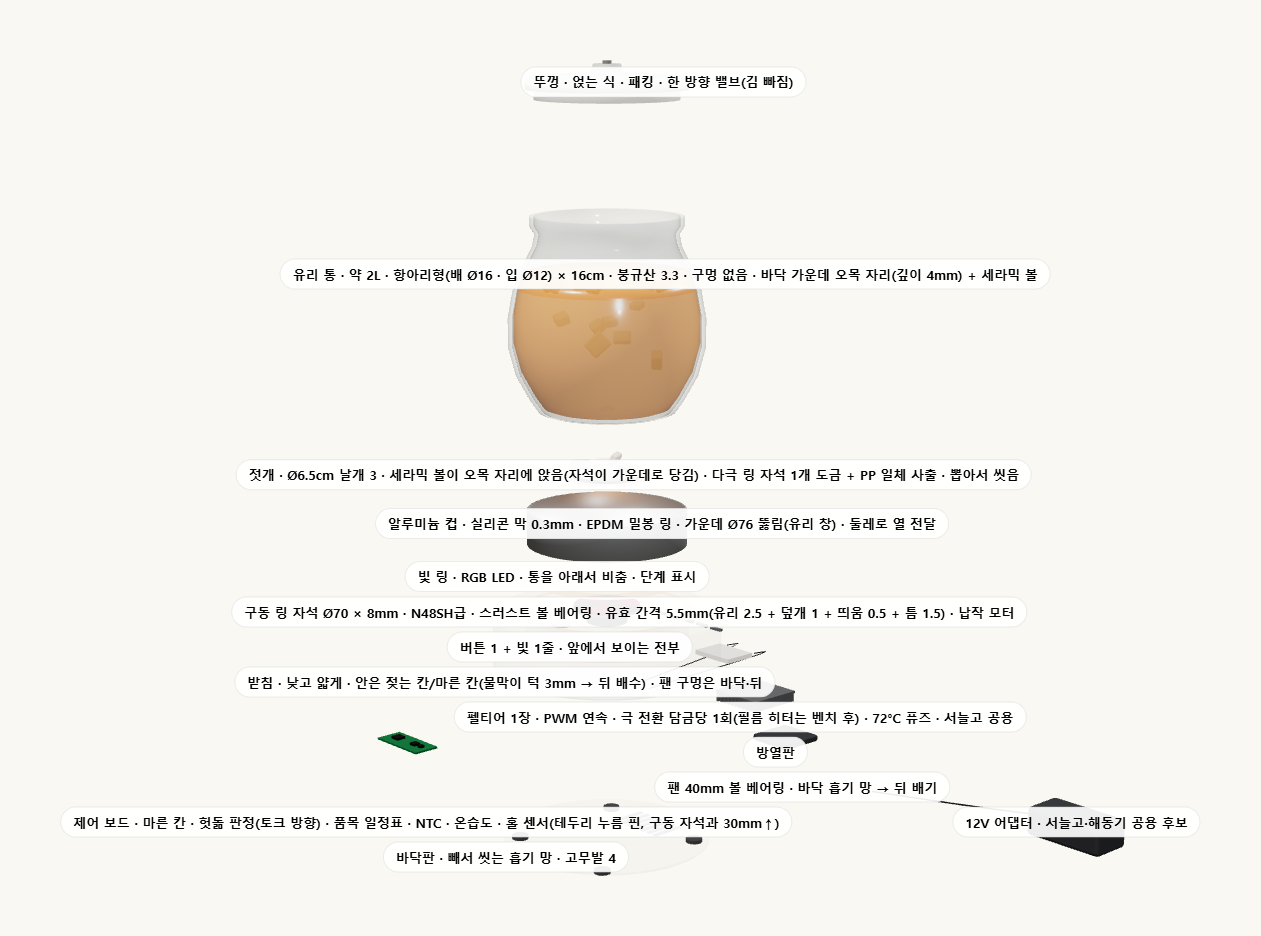
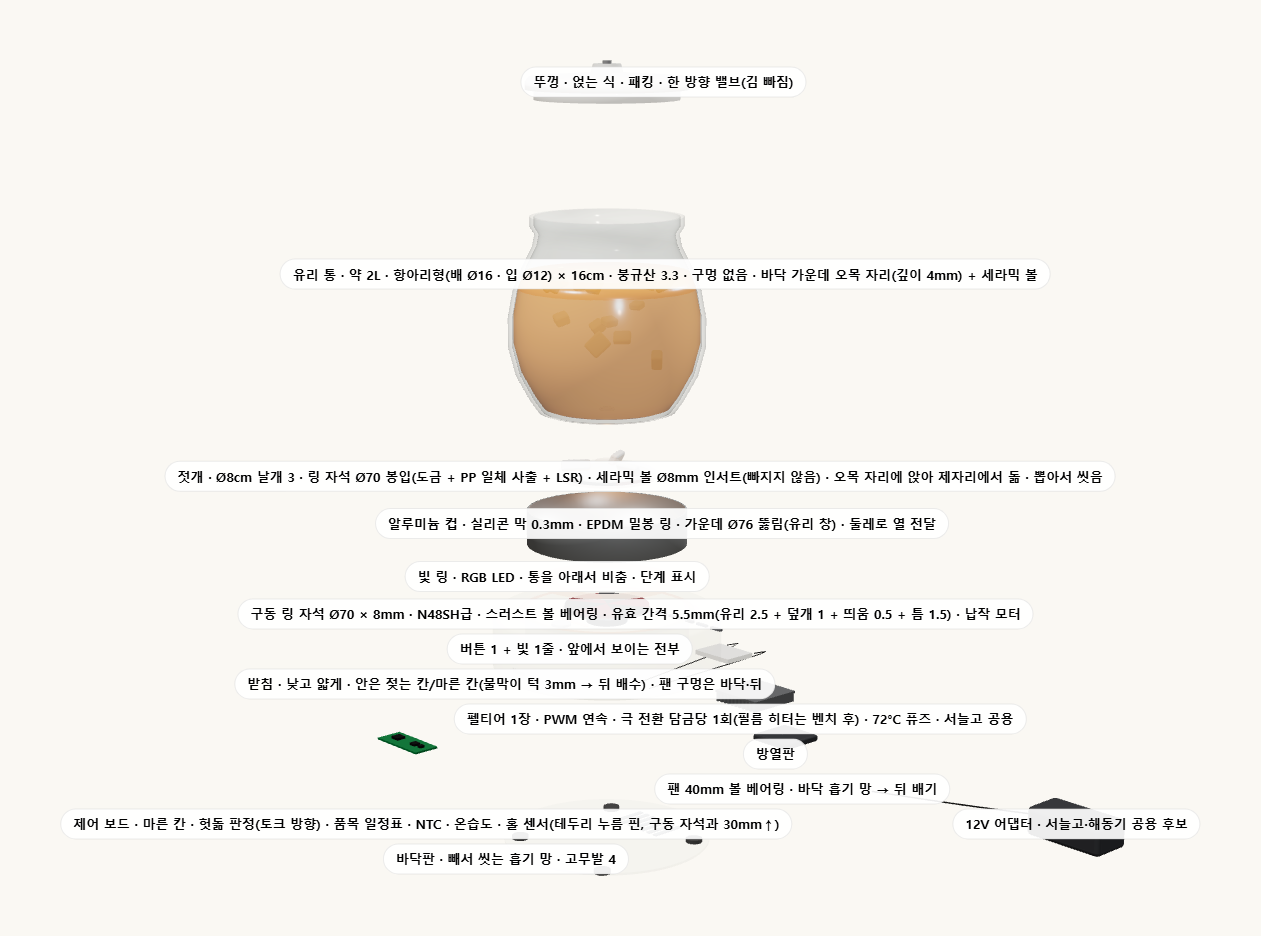
3D 젓개 Ø6.5→Ø8cm(두팔 82231d0에 맞춤): 링 자석 Ø70 양쪽 같은 지름(MR 0.35) · 라벨에 젓개 쪽 링 Ø70·세라믹 볼 인서트 복원 · 단면도 2번 라벨 Ø8cm · 분해도·확대 캡처 재생성

diff --git a/explode.js b/explode.js
@@ -3,7 +3,7 @@ import { RoundedBoxGeometry } from 'three/addons/geometries/RoundedBoxGeometry.j
 import { RoomEnvironment } from 'three/addons/environments/RoomEnvironment.js';
 
 // 휴롬 과일청 메이커(가칭) · 구조 3D v1 첫판 (2026-11-17, 두팔 msg_936ec2ba·msg_4b56059b 지시 · 준보 「무조건 이뻐야 한다」)
-//   유리 통(약 2L, 바닥 가운데 유리 돌기=핀) + 핀에 끼운 Ø6.5cm 날개 젓개(여러 극 희토류 자석 봉입) + 컵 가운데 Ø7cm 유리 창 아래 구동 자석 원판(유효 간격 6~7mm) + 통 바깥(알루미늄 컵 둘레) 펠티어 + 뚜껑 한 방향 밸브. 받침은 낮고 얇게, 유리 통이 주인공. 받침 빛이 통을 아래서 비춤.
+//   유리 통(약 2L, 바닥 가운데 유리 돌기=핀) + 오목 자리에 앉는 Ø8cm 날개 젓개(여러 극 희토류 자석 봉입) + 컵 가운데 Ø7cm 유리 창 아래 구동 자석 원판(유효 간격 6~7mm) + 통 바깥(알루미늄 컵 둘레) 펠티어 + 뚜껑 한 방향 밸브. 받침은 낮고 얇게, 유리 통이 주인공. 받침 빛이 통을 아래서 비춤.
 //   시안 3개: A 항아리형 유리 + 흰 무광 받침 · B 원통 유리 + 연회색 세라믹 받침 · C 넓적한 낮은 유리 + 베이지 받침. 나무 안: 뚜껑 손잡이·받침 윗테.
 //   치수는 모두 가정(단위 10cm): A 받침 Ø20 × 6cm · 통 Ø16(배) × 16cm · 뚜껑 1.2cm.
 //   쿼리: ?p=0~1 진행도 · ?v=a|b|c 시안 · ?c=yuja|maesil|omija|strawberry 청 색 · ?wood 나무 안 · ?night 저녁 장면 고정 · ?day 낮 고정 · ?ang=<도> · ?cy= · ?noairg ?noadapter ?nofruit
@@ -136,7 +136,7 @@ function build(vk) {
   const BH = V.baseH, CUP_D = 0.26, CUP_Y = BH - CUP_D;    // 컵 바닥 높이
   const JH = V.jarH, JY = CUP_Y + 0.02;                     // 통 바닥 높이
   const HR = 0.38, GT = 0.03, GAP = 0.01;                     // 컵 가운데 구멍 반지름(Ø76) · 유리 바닥 3mm · 틈(그림) · 실제 유효 간격 5.5mm(유리 2.5 + 덮개 1.0 + 띄움 0.5 + 틈 1.5) — 2차 구조 검토
-  const VR = 0.325, BALLR = 0.04, DIMPLE = 0.04;              // 날개 Ø6.5cm · 지르코니아 세라믹 볼 Ø8mm · 유리 바닥 오목 자리 깊이 4mm(돌기 없음 — 2차 구조 검토 2026-11-17)
+  const VR = 0.40, MR = 0.35, BALLR = 0.04, DIMPLE = 0.04;   // 날개 Ø8cm · 링 자석 Ø70(젓개 쪽 · 구동 쪽 같은 지름) · 지르코니아 세라믹 볼 Ø8mm · 유리 바닥 오목 자리 깊이 4mm(돌기 없음 — 2차 구조 검토 2026-11-17)
   M.body.color.set(V.baseColor); M.body.roughness = V.baseRough; M.body.clearcoat = V.baseClear;
 
   /* 1. 받침 몸통 — 낮고 얇게. 앞에는 버튼 1 + 빛 1줄만. 팬 구멍은 바닥·뒤 */
@@ -192,16 +192,16 @@ function build(vk) {
     g.position.y = JY;
     part(`유리 통 · 약 2L · ${V.jar === 'onggi' ? '항아리형(배 Ø16 · 입 Ø12)' : V.jar === 'cyl' ? '원통 Ø14' : '넓적 Ø18'} × ${Math.round(JH * 10)}cm · 붕규산 3.3 · 구멍 없음 · 바닥 가운데 오목 자리(깊이 4mm) + 세라믹 볼`, g, [0, 1.9, 0], new THREE.Vector3(V.mouthR + 0.1, JH * 0.75, 0));
   }
-  /* 5. 젓개 — Ø6.5cm 날개 3 · 바닥 가운데 지르코니아 세라믹 볼이 유리 오목 자리에 앉아 제자리에서 돎(자석이 가운데로 당김) · 다극 링 자석 1개는 도금 후 PP 일체 사출(이음매 없음) · LSR 덮기 */
+  /* 5. 젓개 — Ø8cm 날개 3 · 바닥 가운데 지르코니아 세라믹 볼이 유리 오목 자리에 앉아 제자리에서 돎(자석이 가운데로 당김) · 다극 링 자석 1개는 도금 후 PP 일체 사출(이음매 없음) · LSR 덮기 */
   {
     const g = new THREE.Group();
     const body = lathe([[0, 0], [VR, 0], [VR, 0.06], [VR - 0.03, 0.08], [0.12, 0.08], [0.1, 0.15], [0, 0.15]], M.siliconeT, 64); g.add(body);   // 실리콘 겉몸(반투명으로 그림) — 핀 구멍 없음
     const ball = new THREE.Mesh(new THREE.SphereGeometry(BALLR, 24, 16), M.pp); ball.position.y = 0.01; g.add(ball);   // 지르코니아 세라믹 볼(식품용) — 젓개에 박혀 유리 오목 자리에 앉음
-    for (let i = 0; i < 6; i++) { const seg = new THREE.Mesh(new THREE.CylinderGeometry(VR - 0.045, VR - 0.045, 0.028, 48, 1, false, i * Math.PI / 3, Math.PI / 3), i % 2 ? M.magnetS : M.magnet); seg.position.y = 0.026; g.add(seg); }   // 6극 자석 원판(N·S 번갈아) — 유리 바닥에 가장 가깝게
-    const ppCap = new THREE.Mesh(new THREE.CylinderGeometry(VR - 0.04, VR - 0.04, 0.012, 48), M.pp); ppCap.position.y = 0.047; g.add(ppCap);   // PP 봉입 덮개
+    for (let i = 0; i < 6; i++) { const seg = new THREE.Mesh(new THREE.CylinderGeometry(MR, MR, 0.028, 48, 1, false, i * Math.PI / 3, Math.PI / 3), i % 2 ? M.magnetS : M.magnet); seg.position.y = 0.026; g.add(seg); }   // 6극 자석 원판(N·S 번갈아) — 유리 바닥에 가장 가깝게
+    const ppCap = new THREE.Mesh(new THREE.CylinderGeometry(MR + 0.01, MR + 0.01, 0.012, 48), M.pp); ppCap.position.y = 0.047; g.add(ppCap);   // PP 봉입 덮개
     for (let i = 0; i < 3; i++) { const h = new THREE.Group(); h.rotation.y = i * Math.PI * 2 / 3; const b = new THREE.Mesh(new RoundedBoxGeometry(VR - 0.16, 0.09, 0.06, 2, 0.02), M.silicone); b.position.set((VR + 0.1) / 2 + 0.01, 0.12, 0); b.rotation.x = 0.4; h.add(b); g.add(h); }   // 날개 3 · 끝 둥글게
     g.position.y = JY + GT - DIMPLE * 0.6; g.userData.slow = true; spinners.push(g);   // 볼이 오목 자리에 잠김
-    part('젓개 · Ø6.5cm 날개 3 · 세라믹 볼이 오목 자리에 앉음(자석이 가운데로 당김) · 다극 링 자석 1개 도금 + PP 일체 사출 · 뽑아서 씻음', g, [0, 1.35, 0], new THREE.Vector3(VR, 0.08, 0));
+    part('젓개 · Ø8cm 날개 3 · 링 자석 Ø70 봉입(도금 + PP 일체 사출 + LSR) · 세라믹 볼 Ø8mm 인서트(빠지지 않음) · 오목 자리에 앉아 제자리에서 돎 · 뽑아서 씻음', g, [0, 1.35, 0], new THREE.Vector3(VR, 0.08, 0));
   }
   /* 6. 뚜껑 — 얹어 누르는 식 · 가운데 한 방향 밸브 · 손잡이(나무 안) */
   {
@@ -219,12 +219,12 @@ function build(vk) {
     const g = new THREE.Group();
     const DT = 0.03, dy = JY - GAP - DT / 2;
     const disc = new THREE.Group(); disc.position.y = dy;
-    for (let i = 0; i < 6; i++) { const seg = new THREE.Mesh(new THREE.CylinderGeometry(VR - 0.05, VR - 0.05, DT, 48, 1, false, i * Math.PI / 3, Math.PI / 3), i % 2 ? M.magnet : M.magnetS); disc.add(seg); }
-    const yoke = new THREE.Mesh(new THREE.CylinderGeometry(VR - 0.04, VR - 0.04, 0.012, 48), M.heatsink); yoke.position.y = -DT / 2 - 0.006; disc.add(yoke);   // 철 백요크
+    for (let i = 0; i < 6; i++) { const seg = new THREE.Mesh(new THREE.CylinderGeometry(MR, MR, DT, 48, 1, false, i * Math.PI / 3, Math.PI / 3), i % 2 ? M.magnet : M.magnetS); disc.add(seg); }
+    const yoke = new THREE.Mesh(new THREE.CylinderGeometry(MR + 0.01, MR + 0.01, 0.012, 48), M.heatsink); yoke.position.y = -DT / 2 - 0.006; disc.add(yoke);   // 철 백요크
     disc.userData.slow = true; spinners.push(disc); g.add(disc);
     const mh = Math.max(0.08, dy - DT / 2 - 0.012 - 0.1);
     const mot = new THREE.Mesh(new THREE.CylinderGeometry(0.17, 0.17, mh, 28), M.dark); mot.position.y = dy - DT / 2 - 0.012 - mh / 2; g.add(mot);   // 납작 기어드 모터(또는 코일판)
-    part('구동 링 자석 Ø70 × 8mm · N48SH급 · 스러스트 볼 베어링 · 유효 간격 5.5mm(유리 2.5 + 덮개 1 + 띄움 0.5 + 틈 1.5) · 납작 모터', g, [0, 0.3, 0], new THREE.Vector3(VR - 0.05, dy, 0), true);
+    part('구동 링 자석 Ø70 × 8mm · N48SH급 · 스러스트 볼 베어링 · 유효 간격 5.5mm(유리 2.5 + 덮개 1 + 띄움 0.5 + 틈 1.5) · 납작 모터', g, [0, 0.3, 0], new THREE.Vector3(MR, dy, 0), true);
   }
   /* 8. 펠티어 — 컵 바닥 뒤쪽에 1장 · 극 전환으로 데우기/식히기 (서늘고·해동기 공용) */
   const PZ = -(V.cupR * 0.72);   // 컵 가운데 Ø7cm는 뚫려 있어 펠티어는 둘레(뒤쪽)에
